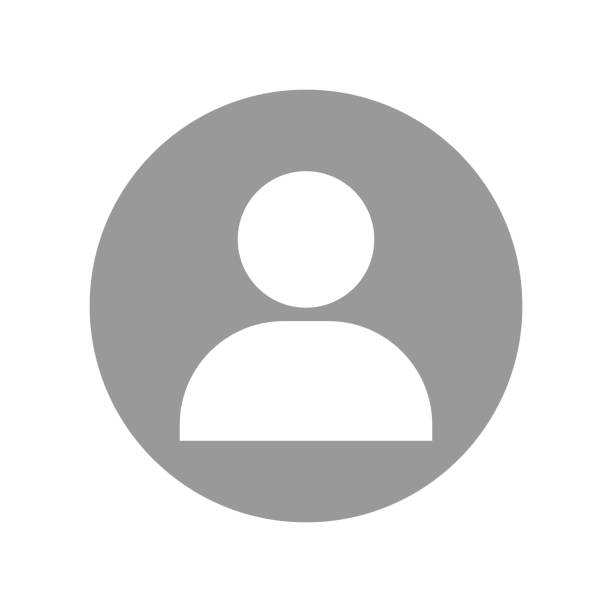
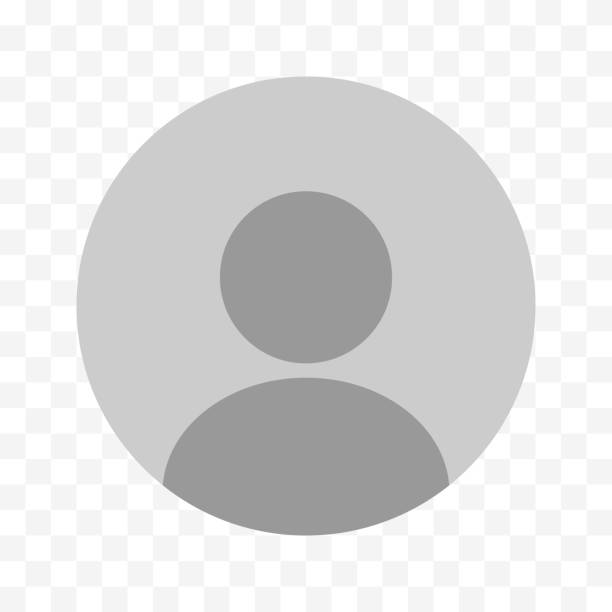
Finalized /userprofile; Fixed App background CSS.

diff --git a/src/components/UserProfile.css b/src/components/UserProfile.css
@@ -1,62 +1,55 @@
 /* UserProfile.css */
 .user-profile {
-    text-align: center;
-  }
-  
-  .profile-photo {
-    width: 150px;
-    height: 150px;
-    border-radius: 50%;
-  }
-  
-  .user-text {
-    font-size: 50px;
+  text-align: center;
+}
 
-  }
-  
-  .email-text {
-    font-size: 24px;
-    color: gray;
-  }
-  
-  .tags {
-    margin-top: 10px;
-  }
-  
-  .tag {
-    display: inline-block;
-    margin: 5px;
-    padding: 5px 10px;
-    background-color: lightblue;
-    color: darkblue;
-  }
-  
-  .details {
-    margin-top: 20px;
-    text-align: left;
-  }
-  
-  .detail-title {
-    font-weight: bold;
-  }
-  
-  .about-me-text {
-    margin-top: 10px;
-  }
+.profile-photo {
+  position: relative;
+  margin-top: 30px;
+  width: 100px;
+  height: 100px;
+  border-radius: 0%;
+  z-index: 999;
+  background-color: transparent;
+  color: transparent;
+}
 
-  .user-header {
-    position: absolute;
-    background-color: lightskyblue;
-    min-height: 80px;
-    width: 100%;
-    padding-top: 50px;
-    padding-bottom: 40px;
-    display: flex;
-    flex-direction: row;
-    align-items: left;
-    float: left;
-    justify-content: center;
-    font-size: 80px;
-    color: white;
-  }
-  
+.user-text {
+  font-size: 50px;
+  color: #2699FB;
+  margin-bottom: 10px;
+}
+
+.email-text {
+  margin-top: 10px;
+  font-size: 24pox;
+  color: #2699FB;
+}
+
+.tags {
+  margin-top: 10px;
+}
+
+.tag {
+  display: inline-block;
+  margin: 5px;
+  padding: 5px 10px;
+  background-color: #CEEAF7;
+  color: darkblue;
+  border-radius: 5px;
+}
+
+.details {
+  margin-top: 20px;
+  margin-left:15px;
+  text-align: left;
+}
+
+.detail-title {
+  margin-top: 10px;
+  font-weight: bold;
+}
+
+.about-me-text {
+  margin-top: 0px;
+}

diff --git a/src/components/UserProfile.js b/src/components/UserProfile.js
@@ -1,6 +1,7 @@
 // UserProfile.js
 import React from 'react';
 import './UserProfile.css';
+import DefaultProfile from '../assets/profile-photos/default.png'
 
 const UserProfile = () => {
   return (
@@ -8,7 +9,7 @@ const UserProfile = () => {
     <div className="Header">Profile</div>
     <div className="user-profile">
       <img
-        src="../assets/profile-photos/default.jpg"
+        src={DefaultProfile}
         alt=''
         className="profile-photo"
       />

diff --git a/src/App.css b/src/App.css
@@ -1,5 +1,9 @@
 .App {
   text-align: center;
+  color: #255155;
+  background-color: #F0F9FF;
+  height: 100vh;
+  overflow-y: hidden;
 }
 
 .App-logo {
@@ -14,7 +18,7 @@
 }
 
 .Header {
-  background-color: lightskyblue;
+  background-color: #6DCFD9;
   min-height: 10px;
   width: 100%;
   padding-top: 10px;
